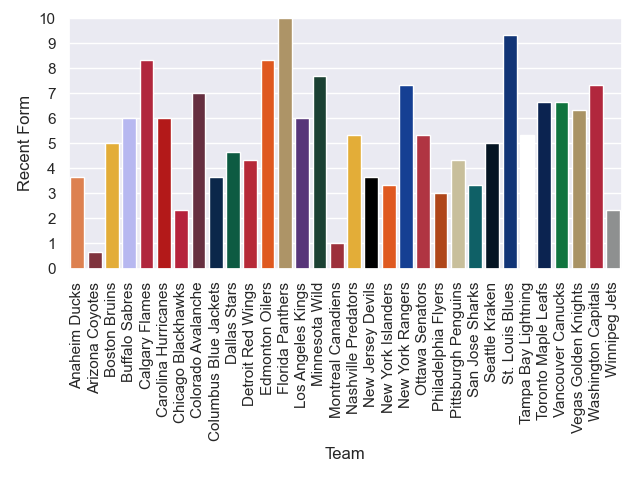
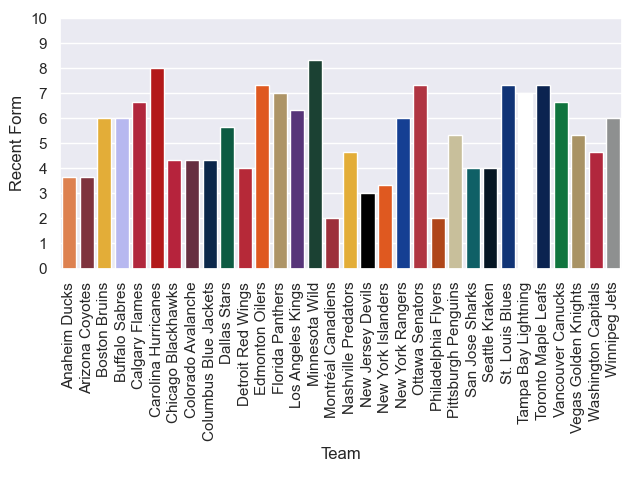
Update Recent form to use web-scraping tool to get data. Will move to this form going forward to avoid manual data entry

Changed region(s): [[0.0, 0.0312, 0.9688, 0.9375], [0.0625, 0.0312, 0.0938, 0.1562], [0.5, 0.9375, 0.5625, 0.9688]]

diff --git a/Metrics/Recent_Form.py b/Metrics/Recent_Form.py
@@ -1,4 +1,5 @@
-from Parsers.Last_Ten_Parser import *
+import requests
+import json
 import math
 
 recent_form_rating = {
@@ -17,7 +18,7 @@ recent_form_rating = {
     'Florida Panthers' : 0,
     'Los Angeles Kings' : 0,
     'Minnesota Wild' : 0,
-    'Montreal Canadiens' : 0,
+    'Montréal Canadiens' : 0,
     'Nashville Predators' : 0,
     'New Jersey Devils' : 0,
     'New York Islanders' : 0,
@@ -36,6 +37,55 @@ recent_form_rating = {
     'Winnipeg Jets' : 0,
 }
 
+last_ten_data = {
+    'Anaheim Ducks' : [],
+    'Arizona Coyotes' : [],
+    'Boston Bruins' : [],
+    'Buffalo Sabres' : [],
+    'Calgary Flames' : [],
+    'Carolina Hurricanes' : [],
+    'Chicago Blackhawks' : [],
+    'Colorado Avalanche' : [],
+    'Columbus Blue Jackets' : [],
+    'Dallas Stars' : [],
+    'Detroit Red Wings' : [],
+    'Edmonton Oilers' : [],
+    'Florida Panthers' : [],
+    'Los Angeles Kings' : [],
+    'Minnesota Wild' : [],
+    'Montréal Canadiens' : [],
+    'Nashville Predators' : [],
+    'New Jersey Devils' : [],
+    'New York Islanders' : [],
+    'New York Rangers' : [],
+    'Ottawa Senators' : [],
+    'Philadelphia Flyers' : [],
+    'Pittsburgh Penguins' : [],
+    'San Jose Sharks' : [],
+    'Seattle Kraken' : [],
+    'St. Louis Blues' : [],
+    'Tampa Bay Lightning' : [],
+    'Toronto Maple Leafs' : [],
+    'Vancouver Canucks' : [],
+    'Vegas Golden Knights' : [],
+    'Washington Capitals' : [],
+    'Winnipeg Jets' : [],
+}
+
+records_url = \
+    'https://statsapi.web.nhl.com/api/v1/standings?expand=standings.record'
+
+def parse_last_ten() -> None:
+    web_data = requests.get(records_url)
+
+    parsed_data = json.loads(web_data.content)
+    for record in parsed_data["records"]:
+        for team in record["teamRecords"]:
+            last_10 = team["records"]["overallRecords"][3]
+
+            # use the team name to sort the row data into the dictionary
+            last_ten_data[team["team"]["name"]] = "{}-{}-{}".format(
+                last_10["wins"], last_10["losses"], last_10["ot"])
 
 def split_game_results(results : str = "") -> tuple((int, int)):
     game_result = results.split("-")
@@ -45,7 +95,7 @@ def split_game_results(results : str = "") -> tuple((int, int)):
 def form_calculate_rating() -> None:
     for team in last_ten_data.keys():
         (wins,  ot) = split_game_results(
-            last_ten_data[team][last_ten_indecies.LAST_TEN.value])
+            last_ten_data[team])
         recent_form_rating[team] = float(wins) + (float(ot) * 0.333)
 
 
@@ -56,6 +106,8 @@ def form_apply_sigmoid() -> None:
 
 
 if __name__ == "__main__":
-    parse_last_ten("Input_Files/Last10Games.csv")
+    parse_last_ten()
     form_calculate_rating()
     form_apply_sigmoid()
+    for team in recent_form_rating.keys() :
+        print("{}: {}".format(team, recent_form_rating[team]))

diff --git a/TeamEngine.py b/TeamEngine.py
@@ -9,7 +9,6 @@ from Parsers.Absolute_Ranking_Parser import *
 from Parsers.Team_Summary_Parser import *
 from Parsers.Matches_Parser import *
 from Parsers.Leading_Trailing_Parser import *
-from Parsers.Last_Ten_Parser import *
 from CSV_Writer import *
 
 # import all custom modules for statistical analysis
@@ -32,6 +31,41 @@ team_color_hex_codes = [
 ]
 
 sigmiod_ticks = [0.0, 0.1, 0.2, 0.3, 0.4, 0.5, 0.6, 0.7, 0.8, 0.9, 1.0]
+
+team_codes = {
+    'Anaheim Ducks' : 24,
+    'Arizona Coyotes' : 53,
+    'Boston Bruins' : 6,
+    'Buffalo Sabres' : 7,
+    'Calgary Flames' : 20,
+    'Carolina Hurricanes' : 12,
+    'Chicago Blackhawks' : 16,
+    'Colorado Avalanche' : 21,
+    'Columbus Blue Jackets' : 29,
+    'Dallas Stars' : 25,
+    'Detroit Red Wings' : 17,
+    'Edmonton Oilers' : 22,
+    'Florida Panthers' : 13,
+    'Los Angeles Kings' : 26,
+    'Minnesota Wild' : 30,
+    'Montreal Canadiens' : 8,
+    'Nashville Predators' : 18,
+    'New Jersey Devils' : 1,
+    'New York Islanders' : 2,
+    'New York Rangers' : 3,
+    'Ottawa Senators' : 9,
+    'Philadelphia Flyers' : 4,
+    'Pittsburgh Penguins' : 5,
+    'San Jose Sharks' : 28,
+    'Seattle Kraken' : 55,
+    'St. Louis Blues' : 19,
+    'Tampa Bay Lightning' : 14,
+    'Toronto Maple Leafs' : 10,
+    'Vancouver Canucks' : 23,
+    'Vegas Golden Knights' : 54,
+    'Washington Capitals' : 15,
+    'Winnipeg Jets' : 52,
+}
 
 total_rating = {
     'Anaheim Ducks' : 0,
@@ -116,7 +150,7 @@ def parse_all_data_files() -> None:
     read_matches(matches)
     parse_team_summary('Input_Files/TeamSummary.csv')
     parse_leading_trailing('Input_Files/LeadingTrailing.csv')
-    parse_last_ten("Input_Files/Last10Games.csv")
+    parse_last_ten()
 
 '''
 Helper functions that calculate the various factors used to create the final

diff --git a/CSV_Writer.py b/CSV_Writer.py
@@ -5,11 +5,12 @@ from Weights import *
 def write_out_file(file_name : str = "", header_row : list = [],
                    rating_list : dict = {}) -> None:
 
-    with open(file_name, 'w', newline='') as csv_data_file:
+    with open(file_name, 'w', newline='', encoding='utf-8') as csv_data_file:
         csv_writer = csv.writer(csv_data_file, delimiter = '\t', quotechar='|', 
             quoting=csv.QUOTE_MINIMAL)
         csv_writer.writerow(header_row)
         for team in rating_list.keys():
+            # if (team == "Montréal Canadiens") :
             csv_writer.writerow([team, str(rating_list[team])])
             # print("{} : {}".format(team, str(rating_list[team])))
 

diff --git a/WebScraper.py b/WebScraper.py
@@ -1,0 +1,9 @@
+import requests
+import json
+url1 = 'https://statsapi.web.nhl.com/api/v1/teams'
+
+if __name__ == "__main__":
+    data = requests.get(url1)
+    parsed_data = json.loads(data.content)
+    for team in parsed_data["teams"]:
+        print("team: {} = {}".format(team["name"], team["id"]))
